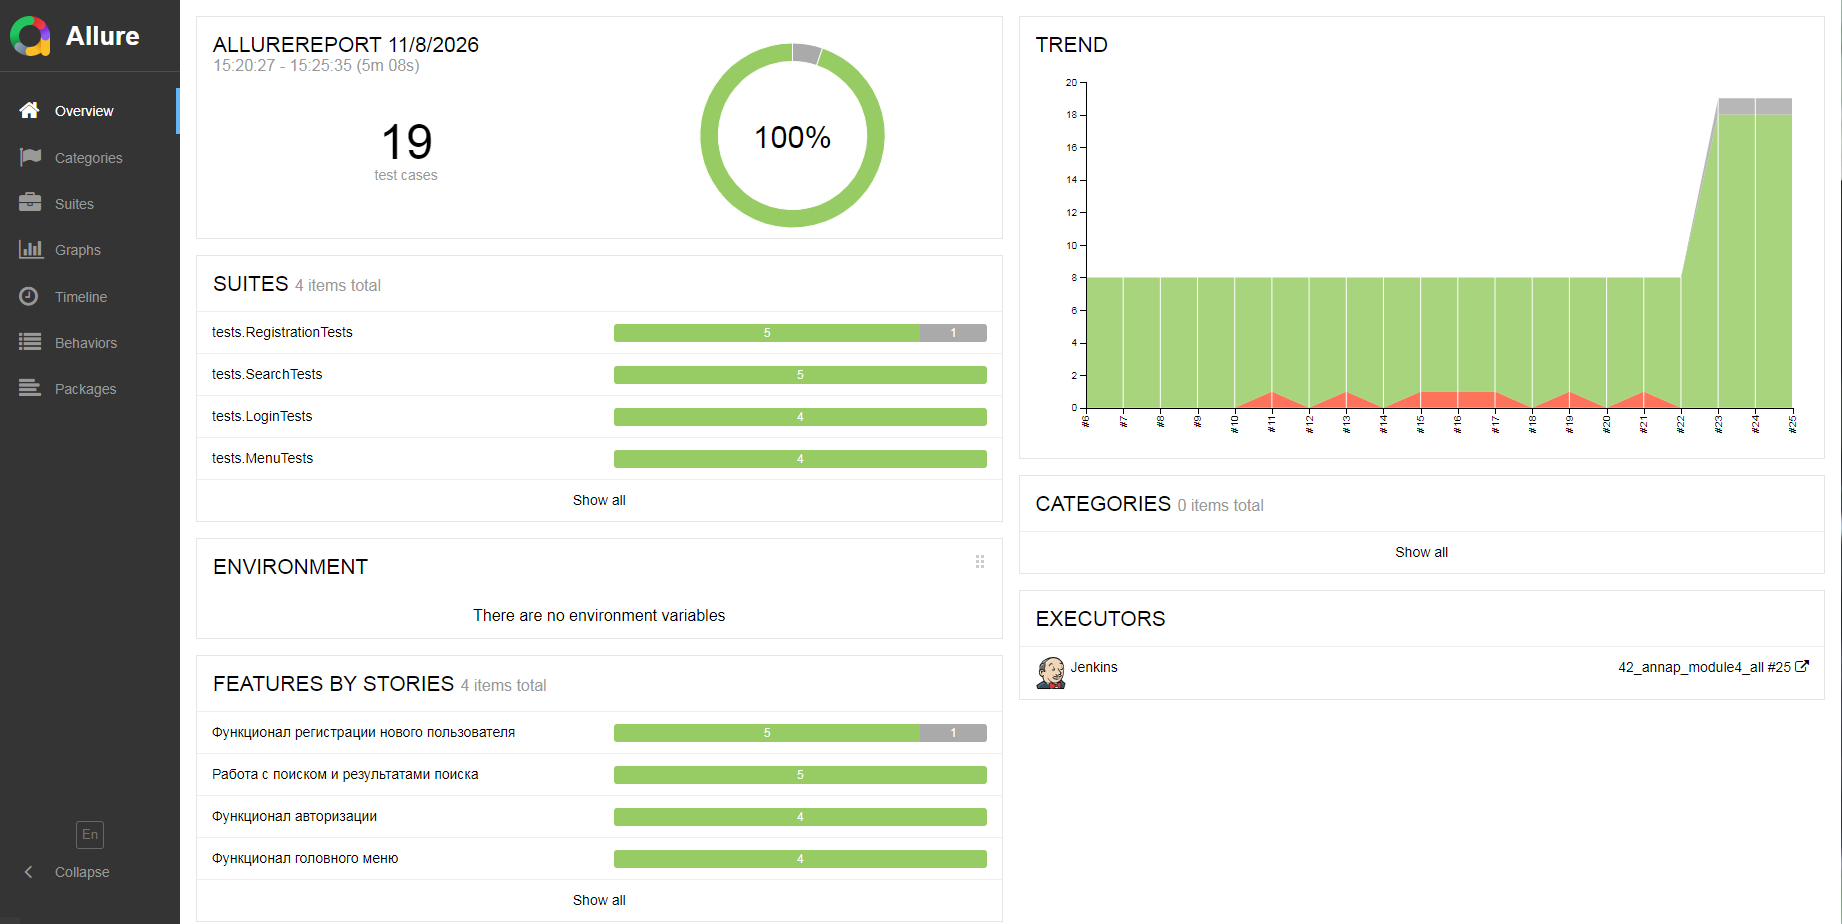
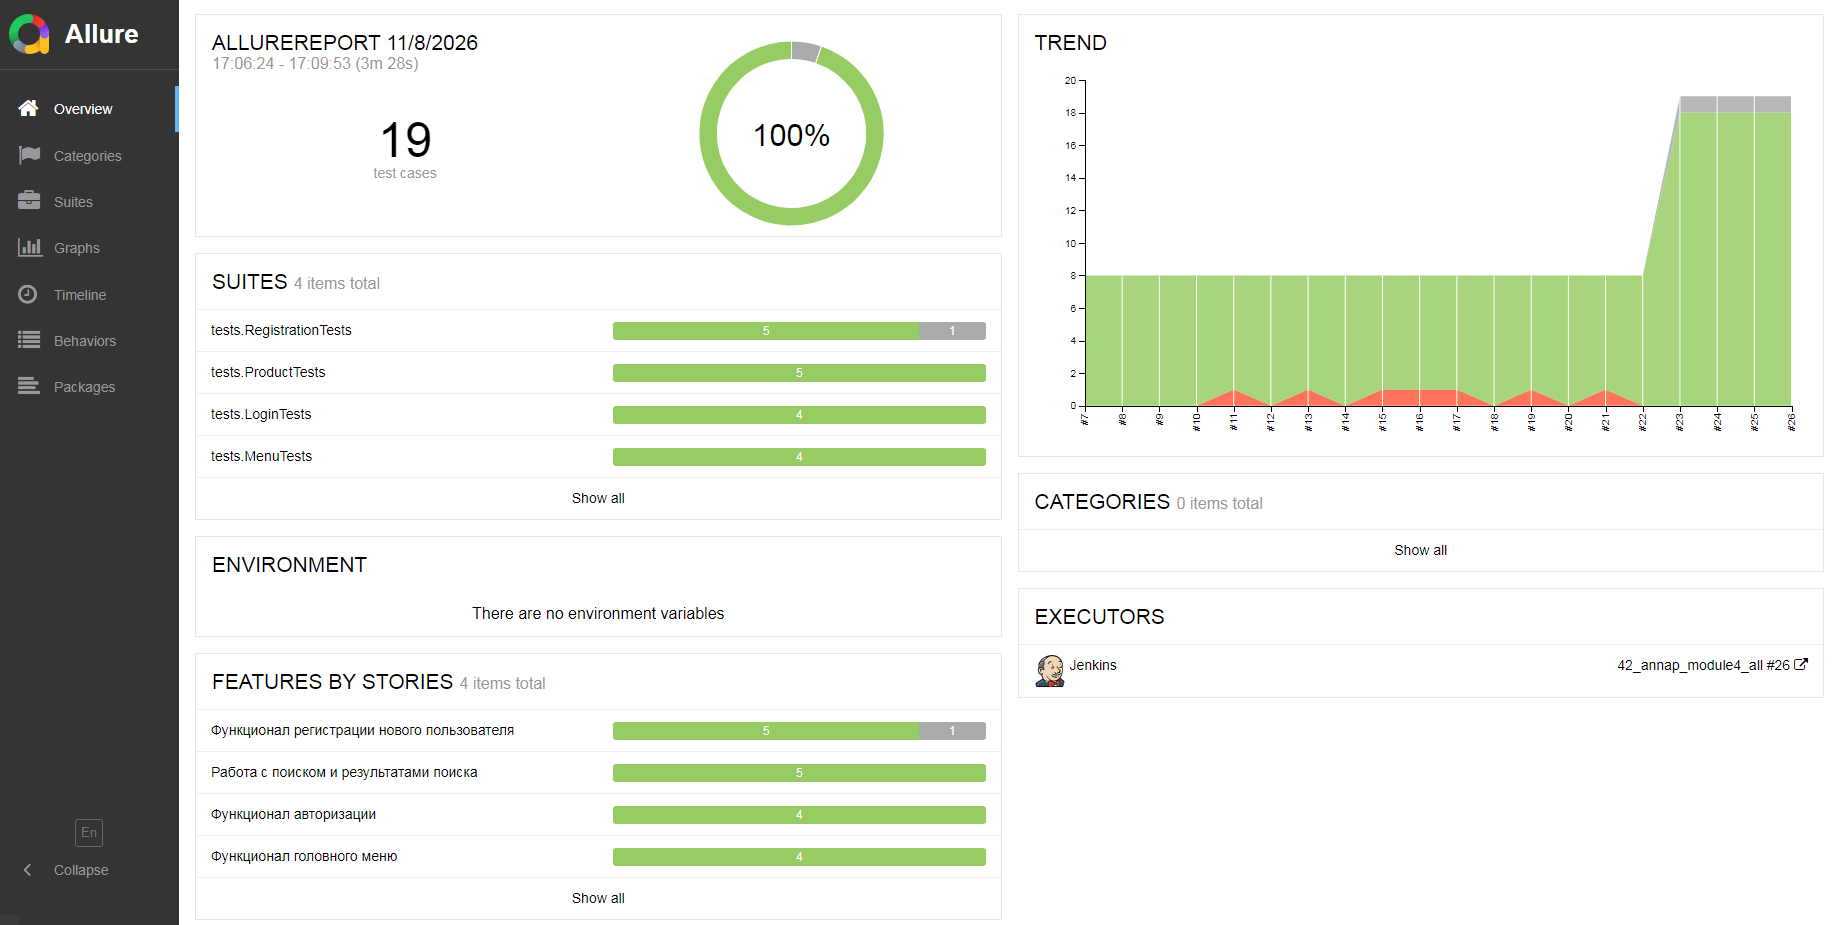
Edited README

diff --git a/README.md b/README.md
@@ -97,6 +97,16 @@ ___
 <a id="allure"></a>
 ## <img alt="Allure" height="25" src="images/logo/Allure.svg" width="25"/></a> <a name="Allure"></a>Allure [отчет](https://jenkins.qa.guru/view/java-students/job/42_annap_module4_all/allure/)</a>
 
+Allure Report — это популярный инструмент с открытым исходным кодом от компании Qameta Software для визуализации результатов автоматизированного тестирования. Он преобразует «сухие» технические логи из автотестов в наглядные и интерактивные HTML-отчёты.
+
+### **Что показывает Allure Report::**
+
+- *Статусы и дерево тестов: сколько тестов прошло успешно (passed), сколько упало (failed) или сломалось (broken), сгруппированные по пакетам, фичам или уровням*
+- *Детали шагов: пошаговый сценарий выполнения каждого теста*
+- *Вложения (Attachments): скриншоты ошибок, сетевые логи, видеозаписи или JSON-ответы с сервера*
+- *История запусков (Trends): графики изменения стабильности тестов от сборки к сборке (помогают выявлять плавающие или нестабильные тесты — flaky tests)*
+- *Окружение (Environment): информация о версии ОС, браузере, стенде и параметрах запуска*
+
 
 ### *Основная страница отчёта*
 
@@ -123,6 +133,17 @@ ___
 ___
 <a id="allure-testops"></a>
 ## <img alt="Allure" height="25" src="images/logo/Allure2.svg" width="25"/></a>Интеграция с <a target="_blank" href="https://allure.qa.guru/project/5372/dashboards">Allure TestOps</a>
+TestOps Тестирование + Операции) — это методология и практика управления, автоматизации и масштабирования процессов тестирования в разработке ПО по аналогии с тем, как DevOps объединяет разработку и эксплуатацию.
+
+
+### **Главные задачи и принципы TestOps:**
+
+- *Интеграция в CI/CD: Встраивание тестов (ручных и автоматизированных) прямо в конвейеры сборки и доставки ПО*
+- *Единое пространство: Объединение тест-кейсов, результатов прогонов, логов, дефектов и требований в одной системе (например, с помощью платформ вроде ТестОпс или Allure TestOps)*
+- *Работа с автотестами: Масштабирование запуска тестов, управление тестовым окружением и сбор отчетов в реальном времени*
+- *Аналитика и метрики: Поиск и устранение «нестабильных» (flaky) тестов, оценка покрытия и прозрачность релизов для бизнеса и разработчиков*
+- *Сотрудничество: Тесная связь между QA-инженерами, разработчиками, DevOps-специалистами и менеджерами*
+
 
 ### *Allure TestOps Dashboard*
 
